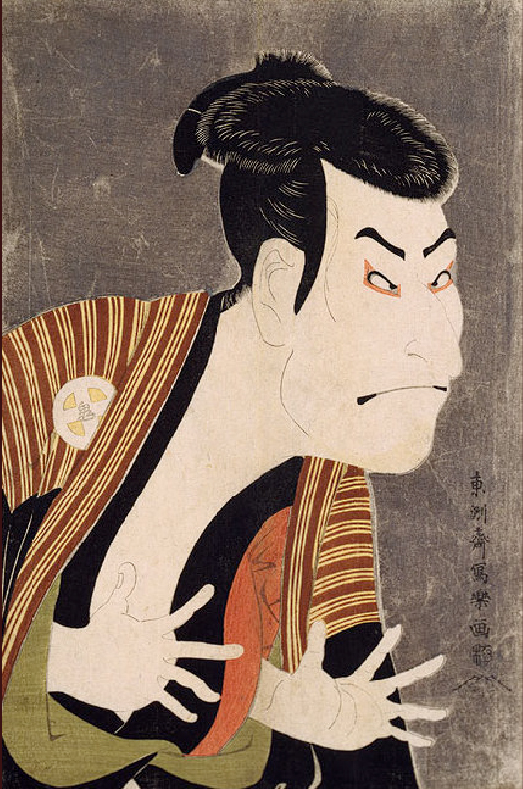
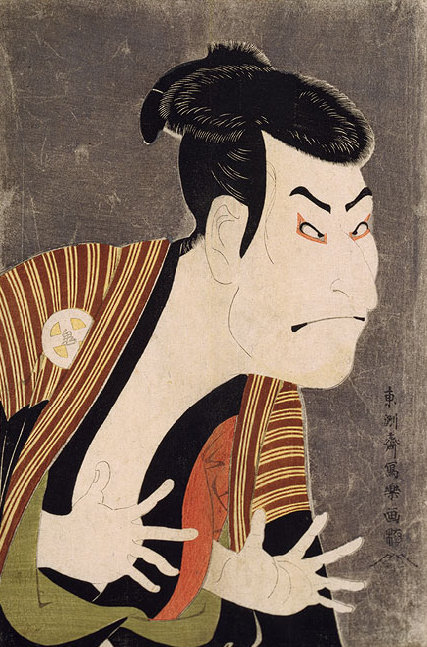
部屋のtop_logoのサイズ変更

diff --git a/css/style.css b/css/style.css
@@ -571,8 +571,8 @@ div#bathmain p {
 	text-align: left;
 }
 img#bathtitle1 {
-	width: 261px;
-	height: 304px;
+	width: 266px;
+	height: 366px;
 	display: block;
 	margin: 50px auto 150px auto;
 }
@@ -663,7 +663,7 @@ div#reservemain p {
 	text-align: left;
 }
 img#reservetitle1 {
-	width: 261px;
+	width: 266px;
 	height: 395px;
 	display: block;
 	margin: 50px auto 150px auto;
